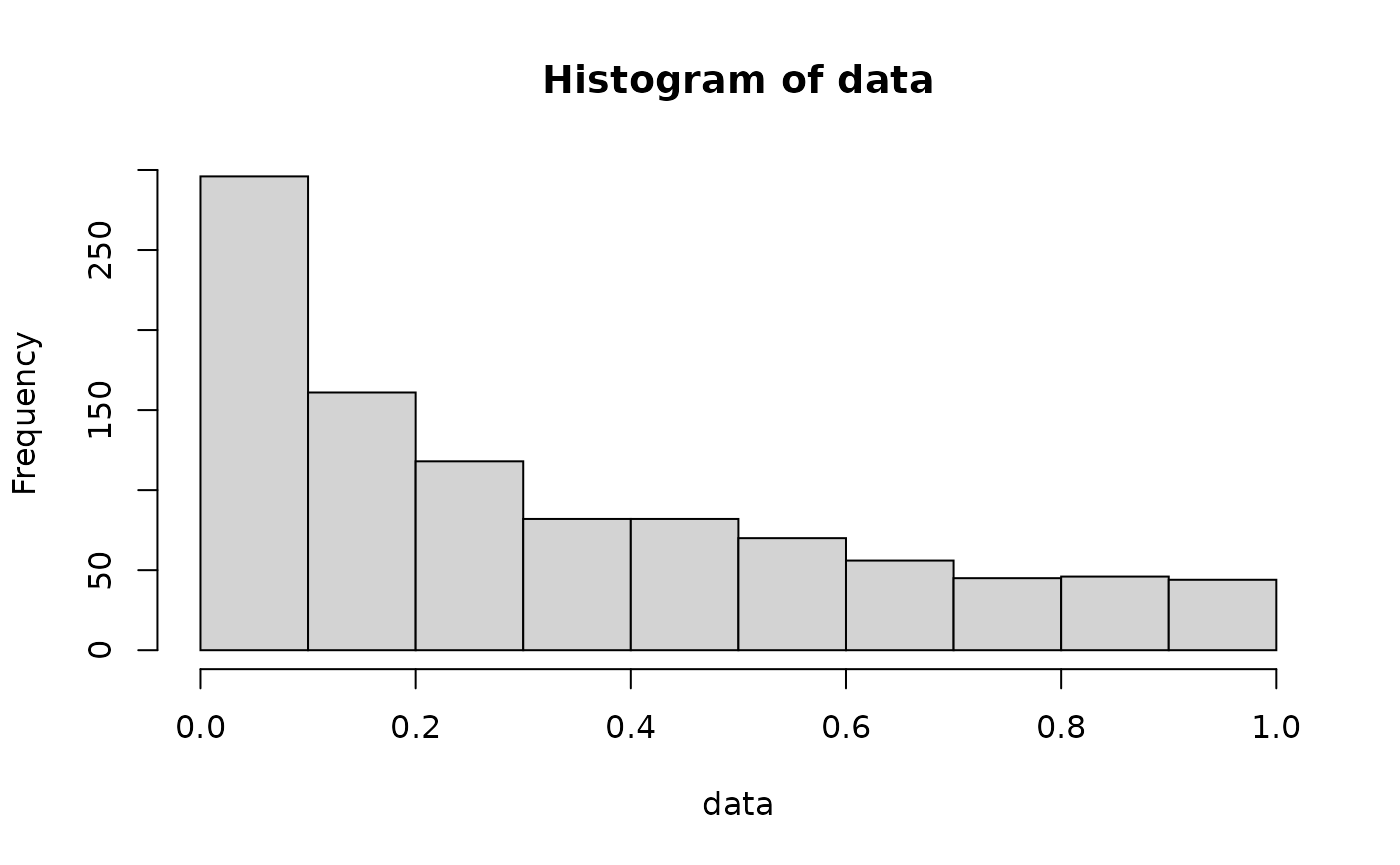
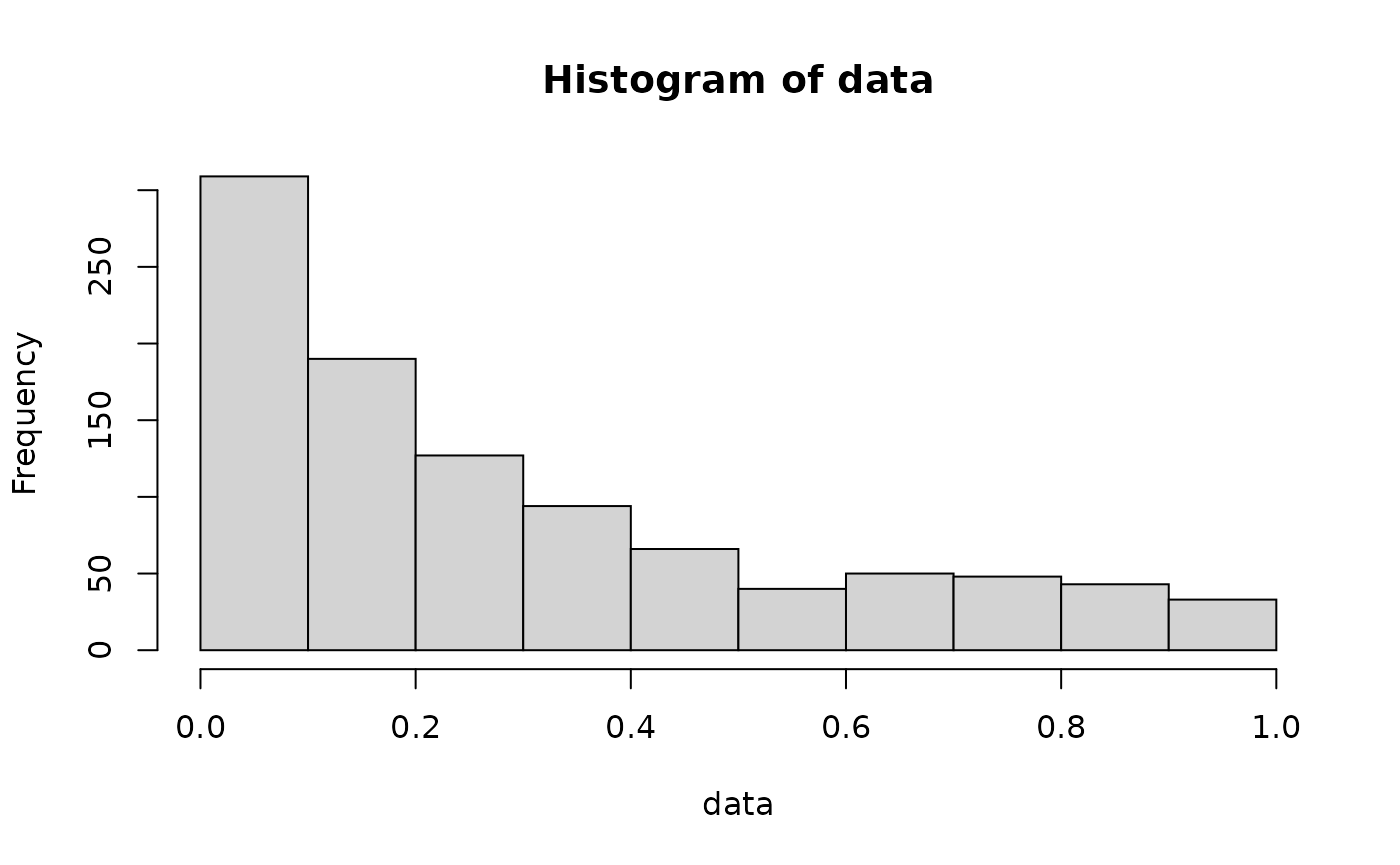
Built site for bradfordr: 0.0.0.9000@ac12aa3

diff --git a/articles/rng-bradford-dist.html b/articles/rng-bradford-dist.html
@@ -134,7 +134,7 @@ x = F^{-1}(u;c) = \frac{(1+c)^u - 1}{c}
 <span class="va">data</span> <span class="op">&lt;-</span> <span class="fu"><a href="../reference/bradford.html">rbradford</a></span><span class="op">(</span><span class="fl">1000</span>, c<span class="op">=</span><span class="fl">10</span><span class="op">)</span>
 
 <span class="fu"><a href="https://rdrr.io/r/utils/head.html">head</a></span><span class="op">(</span><span class="va">data</span><span class="op">)</span>
-<span class="co">#&gt; [1] 0.27639828 0.11461536 0.05810641 0.37735477 0.17607866 0.14172761</span></code></pre></div>
+<span class="co">#&gt; [1] 0.21172628 0.13729102 0.08966519 0.09277710 0.02797103 0.17036946</span></code></pre></div>
 <p>We can easily plot this data to understand how it behaves:</p>
 <div class="sourceCode" id="cb3"><pre class="downlit sourceCode r">
 <code class="sourceCode R">
